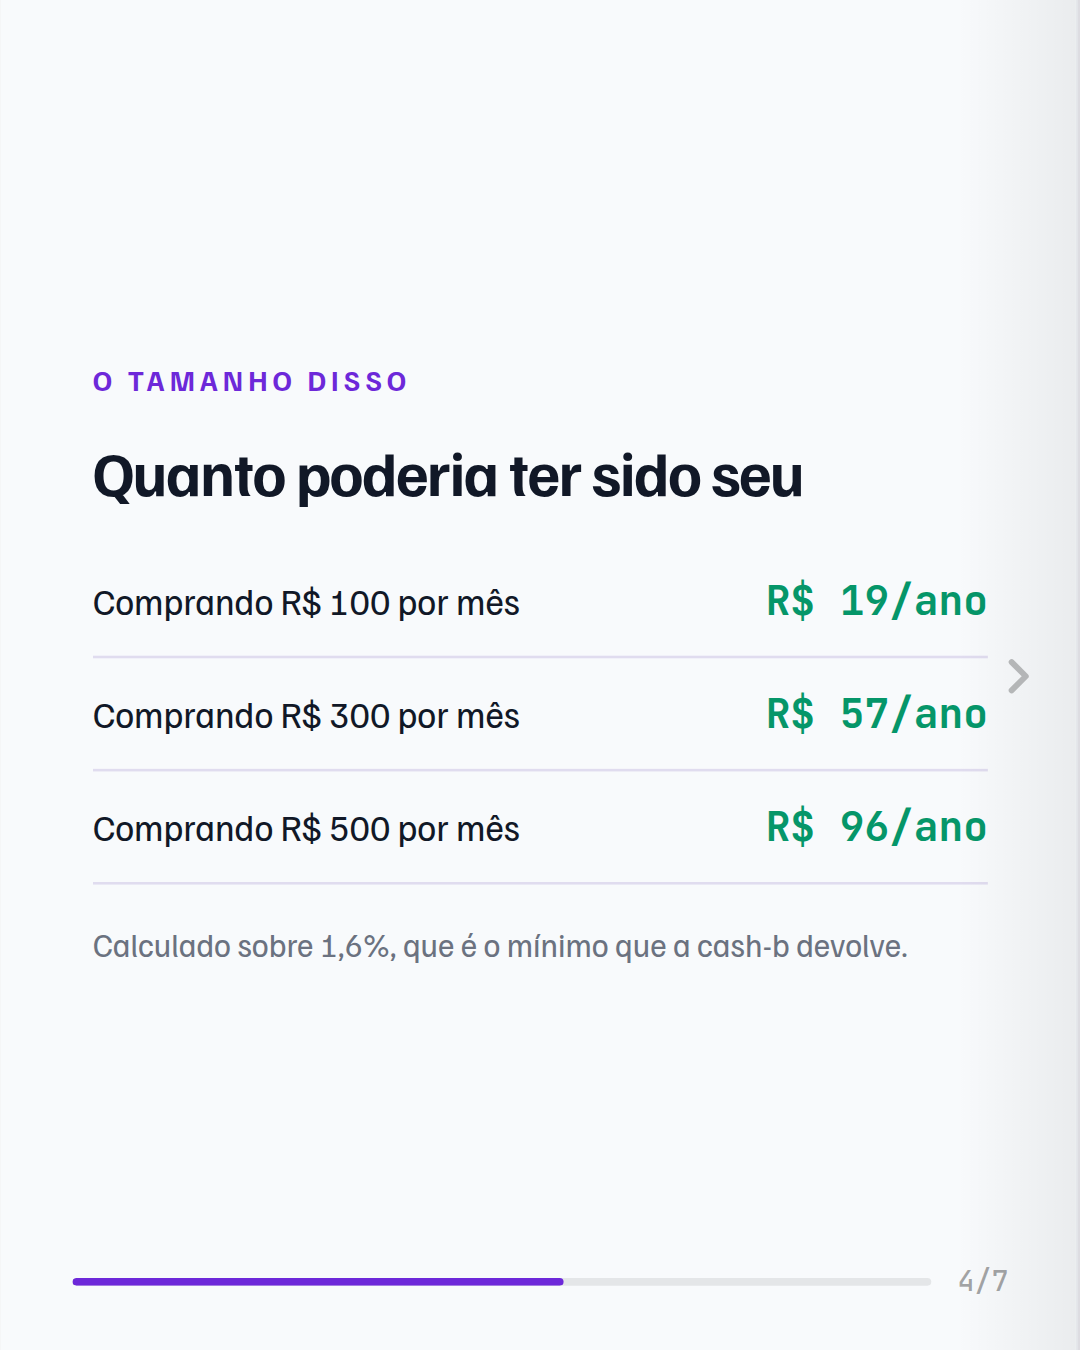
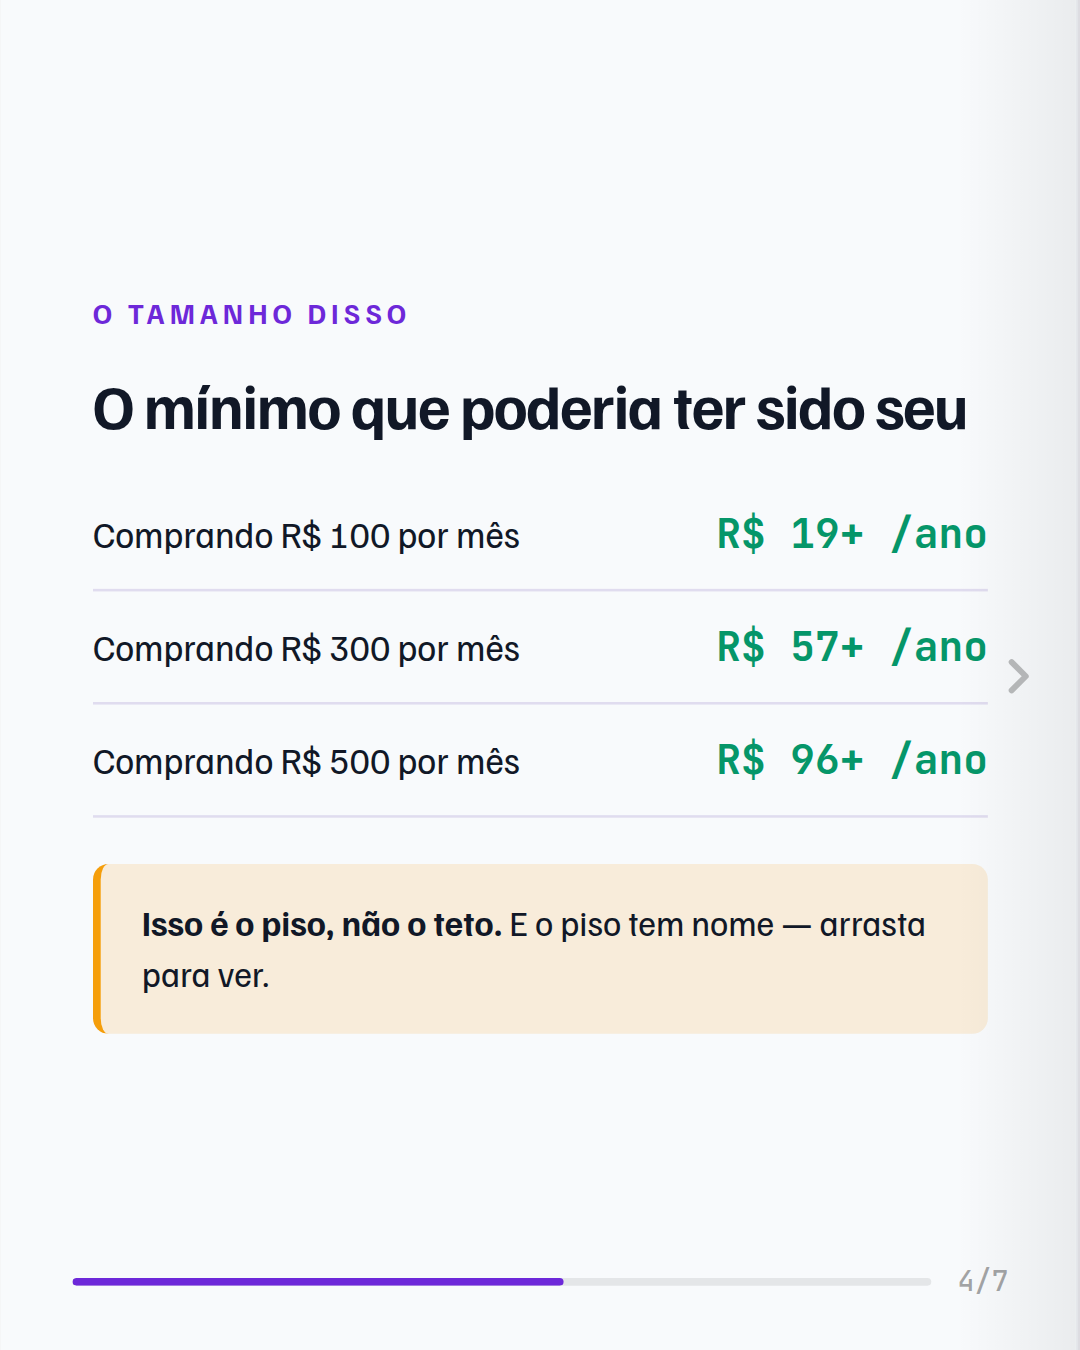
Aplica o mesmo reforço do "no mínimo" no carrossel de comissão invisível
Mesmo tratamento do gasto anual na tabela de escala: "mínimo" no título, "+"
colado em cada valor e caixa de destaque no lugar da nota cinza no rodapé.

O destaque aqui é curto de propósito e termina em "o piso tem nome — arrasta
para ver": quem explica é o slide seguinte, que já abre com o 1,6% em corpo
gigante. Repetir a explicação inteira nos dois slides seguidos seria redundante,
e assim o gancho ainda puxa o swipe.

Corrige também o docstring, que citava números da pesquisa Klavi que este
carrossel não chega a exibir - a escala aqui é conta própria, não dado externo,
e por isso nenhum slide leva crédito de fonte.

Claude-Session: https://claude.ai/code/session_017WZWLEiMQvHUst5KUYseHY

diff --git a/marketing/instagram/carrossel-comissao-invisivel/preview.html b/marketing/instagram/carrossel-comissao-invisivel/preview.html
@@ -147,33 +147,37 @@ body {
                         padding:44px 36px 52px;">
                 
     <span style="display:block; font-family:Familjen; font-size:11px; font-weight:700; letter-spacing:2px; text-transform:uppercase; color:#6d28d9; margin-bottom:16px;">o tamanho disso</span>
-    <div style="font-family:Familjen; font-size:24px; font-weight:700; line-height:1.16; letter-spacing:-0.025em; color:#111827;">Quanto poderia ter sido seu</div>
+    <div style="font-family:Familjen; font-size:24px; font-weight:700; line-height:1.16; letter-spacing:-0.025em; color:#111827;">O mínimo que poderia ter sido seu</div>
     <div style="margin-top:14px;">
         
     <div style="display:flex; align-items:center; justify-content:space-between;
                 padding:11px 0; border-bottom:1px solid #e0dcef;">
         <span style="font-family:Familjen; font-size:14px; color:#111827;">Comprando R$ 100 por mês</span>
-        <span style="font-family:'JB Mono'; font-size:16px; font-weight:700; color:#059669;">R$ 19/ano</span>
+        <span style="font-family:'JB Mono'; font-size:16px; font-weight:700; color:#059669;">R$ 19+ /ano</span>
     </div>
     
         
     <div style="display:flex; align-items:center; justify-content:space-between;
                 padding:11px 0; border-bottom:1px solid #e0dcef;">
         <span style="font-family:Familjen; font-size:14px; color:#111827;">Comprando R$ 300 por mês</span>
-        <span style="font-family:'JB Mono'; font-size:16px; font-weight:700; color:#059669;">R$ 57/ano</span>
+        <span style="font-family:'JB Mono'; font-size:16px; font-weight:700; color:#059669;">R$ 57+ /ano</span>
     </div>
     
         
     <div style="display:flex; align-items:center; justify-content:space-between;
                 padding:11px 0; border-bottom:1px solid #e0dcef;">
         <span style="font-family:Familjen; font-size:14px; color:#111827;">Comprando R$ 500 por mês</span>
-        <span style="font-family:'JB Mono'; font-size:16px; font-weight:700; color:#059669;">R$ 96/ano</span>
+        <span style="font-family:'JB Mono'; font-size:16px; font-weight:700; color:#059669;">R$ 96+ /ano</span>
     </div>
     
     </div>
-    <div style="font-family:Familjen; font-size:12.5px; color:#6b7280; margin-top:14px; line-height:1.45;">
-        Calculado sobre 1,6%, que é o mínimo que a cash-b devolve.
+    
+    <div style="margin-top:18px; padding:13px 16px; background:rgba(245,158,11,0.14);
+                border-left:3px solid #f59e0b; border-radius:6px; font-family:Familjen;
+                font-size:13.5px; color:#111827; line-height:1.5;">
+        <b>Isso é o piso, não o teto.</b> E o piso tem nome — arrasta para ver.
     </div>
+    
     
             </div>
             

diff --git a/marketing/instagram/gerar_carrossel_comissao_invisivel.py b/marketing/instagram/gerar_carrossel_comissao_invisivel.py
@@ -4,8 +4,10 @@ Diferente do carrossel de gasto anual (que é um exercício pessoal, "descubra o
 número"), esse aqui explica o mecanismo: a comissão de afiliado existe em toda venda
 e sempre vai para alguém. O "erro" é nunca ter sido esse alguém.
 
-Números: pesquisa Klavi 2025 - 18 pedidos/ano na Shopee, ticket médio R$ 83,88. O piso
-de 1,6% vem de SHOPEE_CASHBACK_PERCENTUAL (20%) x SHOPEE_COMISSAO_VENDA_DIRETA (8%).
+Os valores da escala são conta própria (gasto mensal hipotético x 1,6%), não dado de
+pesquisa - por isso nenhum slide leva crédito de fonte, diferente do carrossel de gasto
+anual. O piso de 1,6% vem de SHOPEE_CASHBACK_PERCENTUAL (20%) x
+SHOPEE_COMISSAO_VENDA_DIRETA (8%).
 """
 from carrossel_base import (
     BRAND_GRADIENT,
@@ -17,6 +19,7 @@ from carrossel_base import (
     SUCCESS,
     Slide,
     cta_pill,
+    destaque,
     gerar,
     linha_valor,
     numero_gigante,
@@ -50,17 +53,18 @@ SLIDES = [
         "rgba(255,255,255,0.7)", 300, 14.5)}
     """, False),
 
+    # Mesmo tratamento do carrossel de gasto anual: "no mínimo" no título, "+" colado
+    # no valor e caixa de destaque. Aqui o destaque fica curto de propósito - quem
+    # explica o piso é o slide seguinte, que abre com o 1,6% em corpo gigante.
     Slide(LIGHT_BG, f"""
     {tag_label("o tamanho disso", BRAND_PRIMARY)}
-    {titulo("Quanto poderia ter sido seu", 24, DARK_BG)}
+    {titulo("O mínimo que poderia ter sido seu", 24, DARK_BG)}
     <div style="margin-top:14px;">
-        {linha_valor("Comprando R$ 100 por mês", "R$ 19/ano")}
-        {linha_valor("Comprando R$ 300 por mês", "R$ 57/ano")}
-        {linha_valor("Comprando R$ 500 por mês", "R$ 96/ano")}
+        {linha_valor("Comprando R$ 100 por mês", "R$ 19+ /ano")}
+        {linha_valor("Comprando R$ 300 por mês", "R$ 57+ /ano")}
+        {linha_valor("Comprando R$ 500 por mês", "R$ 96+ /ano")}
     </div>
-    <div style="font-family:Familjen; font-size:12.5px; color:{MUTED}; margin-top:14px; line-height:1.45;">
-        Calculado sobre 1,6%, que é o mínimo que a cash-b devolve.
-    </div>
+    {destaque("<b>Isso é o piso, não o teto.</b> E o piso tem nome — arrasta para ver.")}
     """, True),
 
     Slide(BRAND_GRADIENT, f"""
